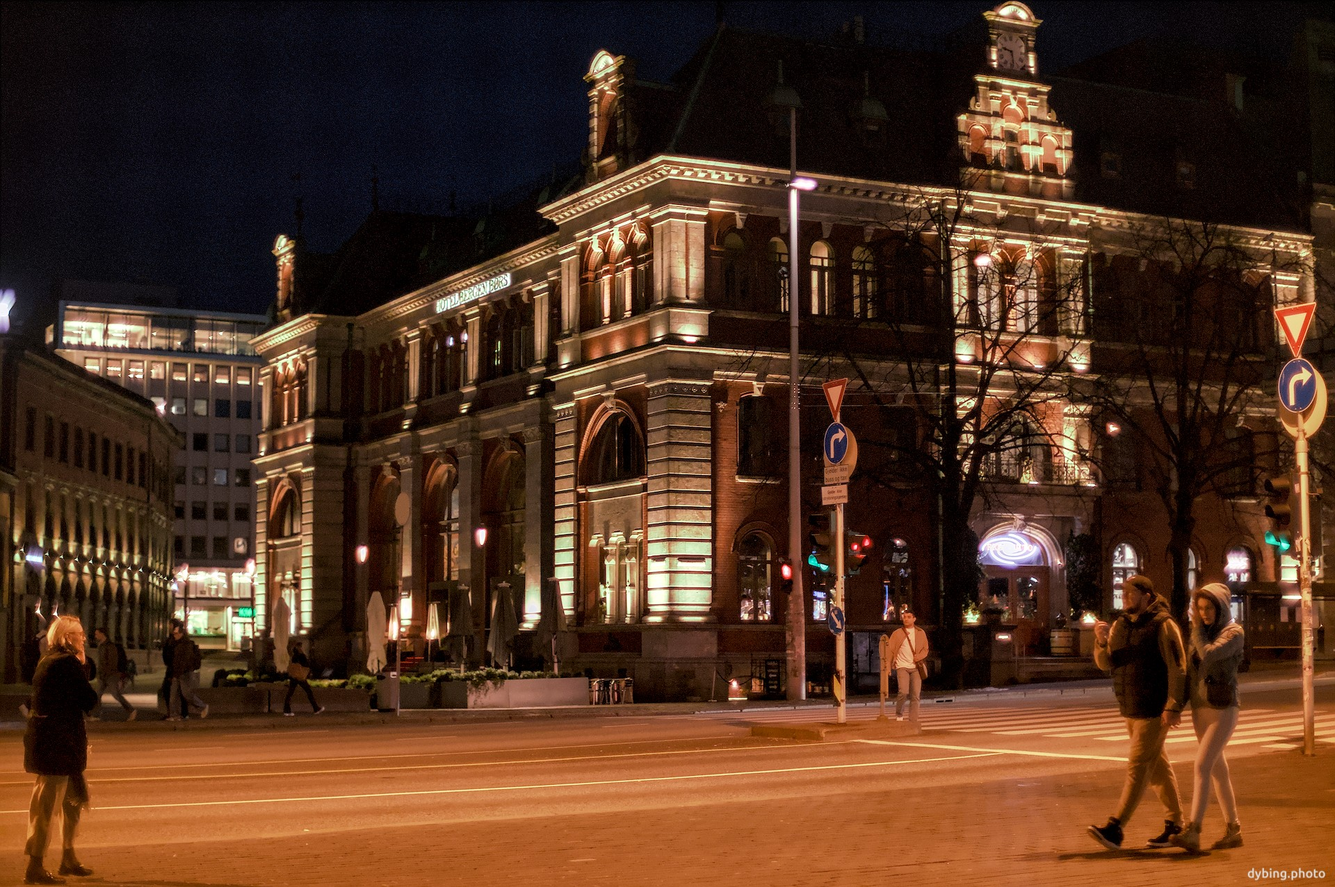
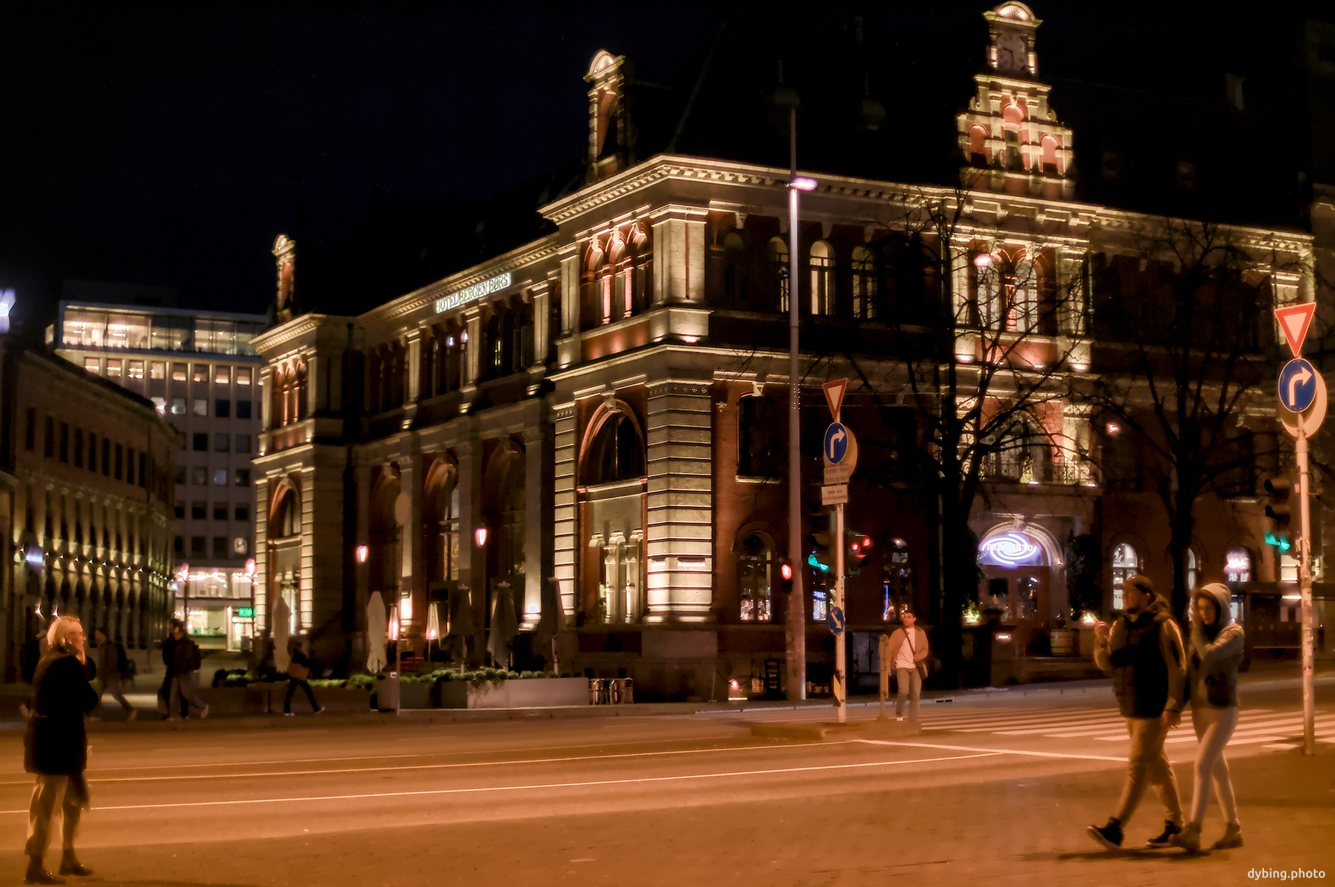
Fixed a 2025 image

diff --git a/public/best25_1/index.html b/public/best25_1/index.html
@@ -465,9 +465,9 @@
       
       
       
-      <a class="gallery-item" href="/best25_1/250414.jpg" data-pswp-src="/best25_1/250414_hu_b97b8e58e93efed0.jpg" data-pswp-width="1600" data-pswp-height="1064" data-pswp-target="250414.jpg" title="The old stock exchange at night - April" itemscope itemtype="https://schema.org/ImageObject" style="aspect-ratio: 600 / 399">
-        <figure style="background-color: #2a1811; aspect-ratio: 600 / 399">
-          <img class="lazyload" width="600" height="399" data-src="/best25_1/250414_hu_b6d81b7522fa2006.jpg" alt="The old stock exchange at night - April" />
+      <a class="gallery-item" href="/best25_1/250414.jpg" data-pswp-src="/best25_1/250414_hu_5b4bcf184301e5e7.jpg" data-pswp-width="1600" data-pswp-height="1064" data-pswp-target="250414.jpg" title="The old stock exchange at night - April" itemscope itemtype="https://schema.org/ImageObject" style="aspect-ratio: 600 / 399">
+        <figure style="background-color: #24140a; aspect-ratio: 600 / 399">
+          <img class="lazyload" width="600" height="399" data-src="/best25_1/250414_hu_ba185c2b31d2a7cf.jpg" alt="The old stock exchange at night - April" />
         </figure>
         <meta itemprop="contentUrl" content="/best25_1/250414.jpg" />
         
